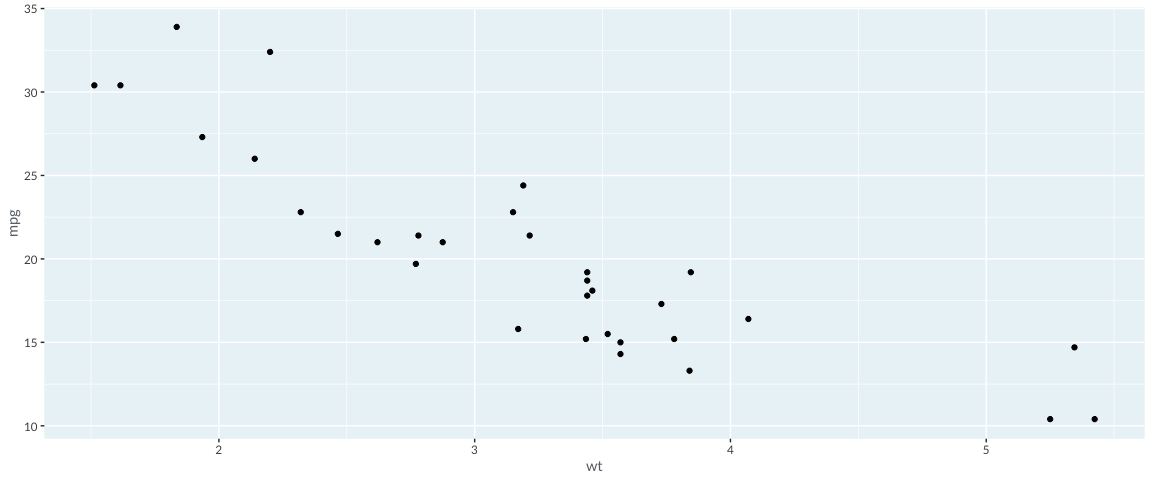
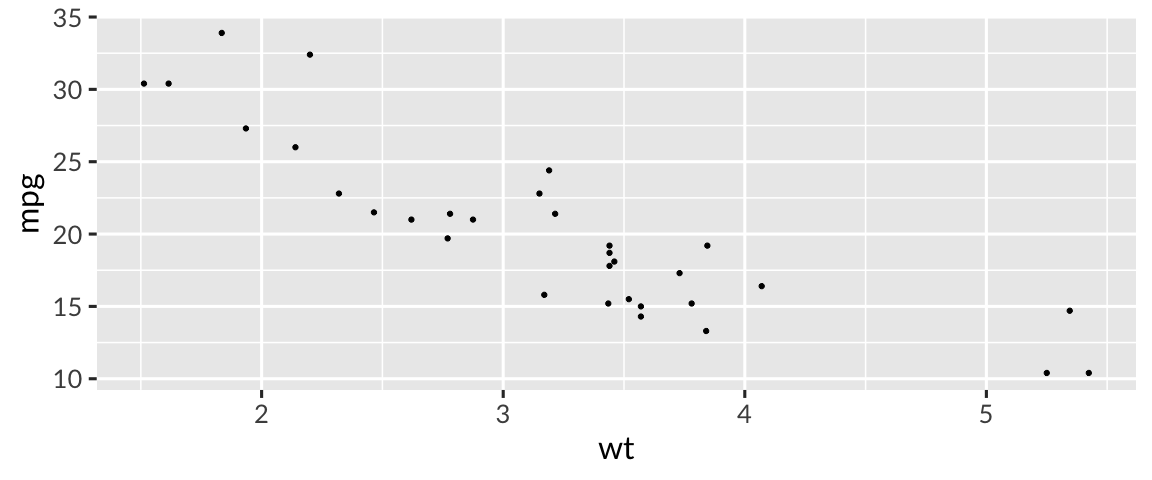
update

diff --git a/article1/article.md b/article1/article.md
@@ -13,8 +13,9 @@ output:
 
 ```r
 ggplot(mtcars, aes(x = wt, y = mpg)) +
-  geom_point()
+  geom_point() +
+  theme_gray(base_size = 18, base_family = 'Lato')
 ```
 
-![](article_files/figure-html/unnamed-chunk-1-1.png)<!-- -->
+![](article_files/figure-html/plot-1-1.png)<!-- -->
 
